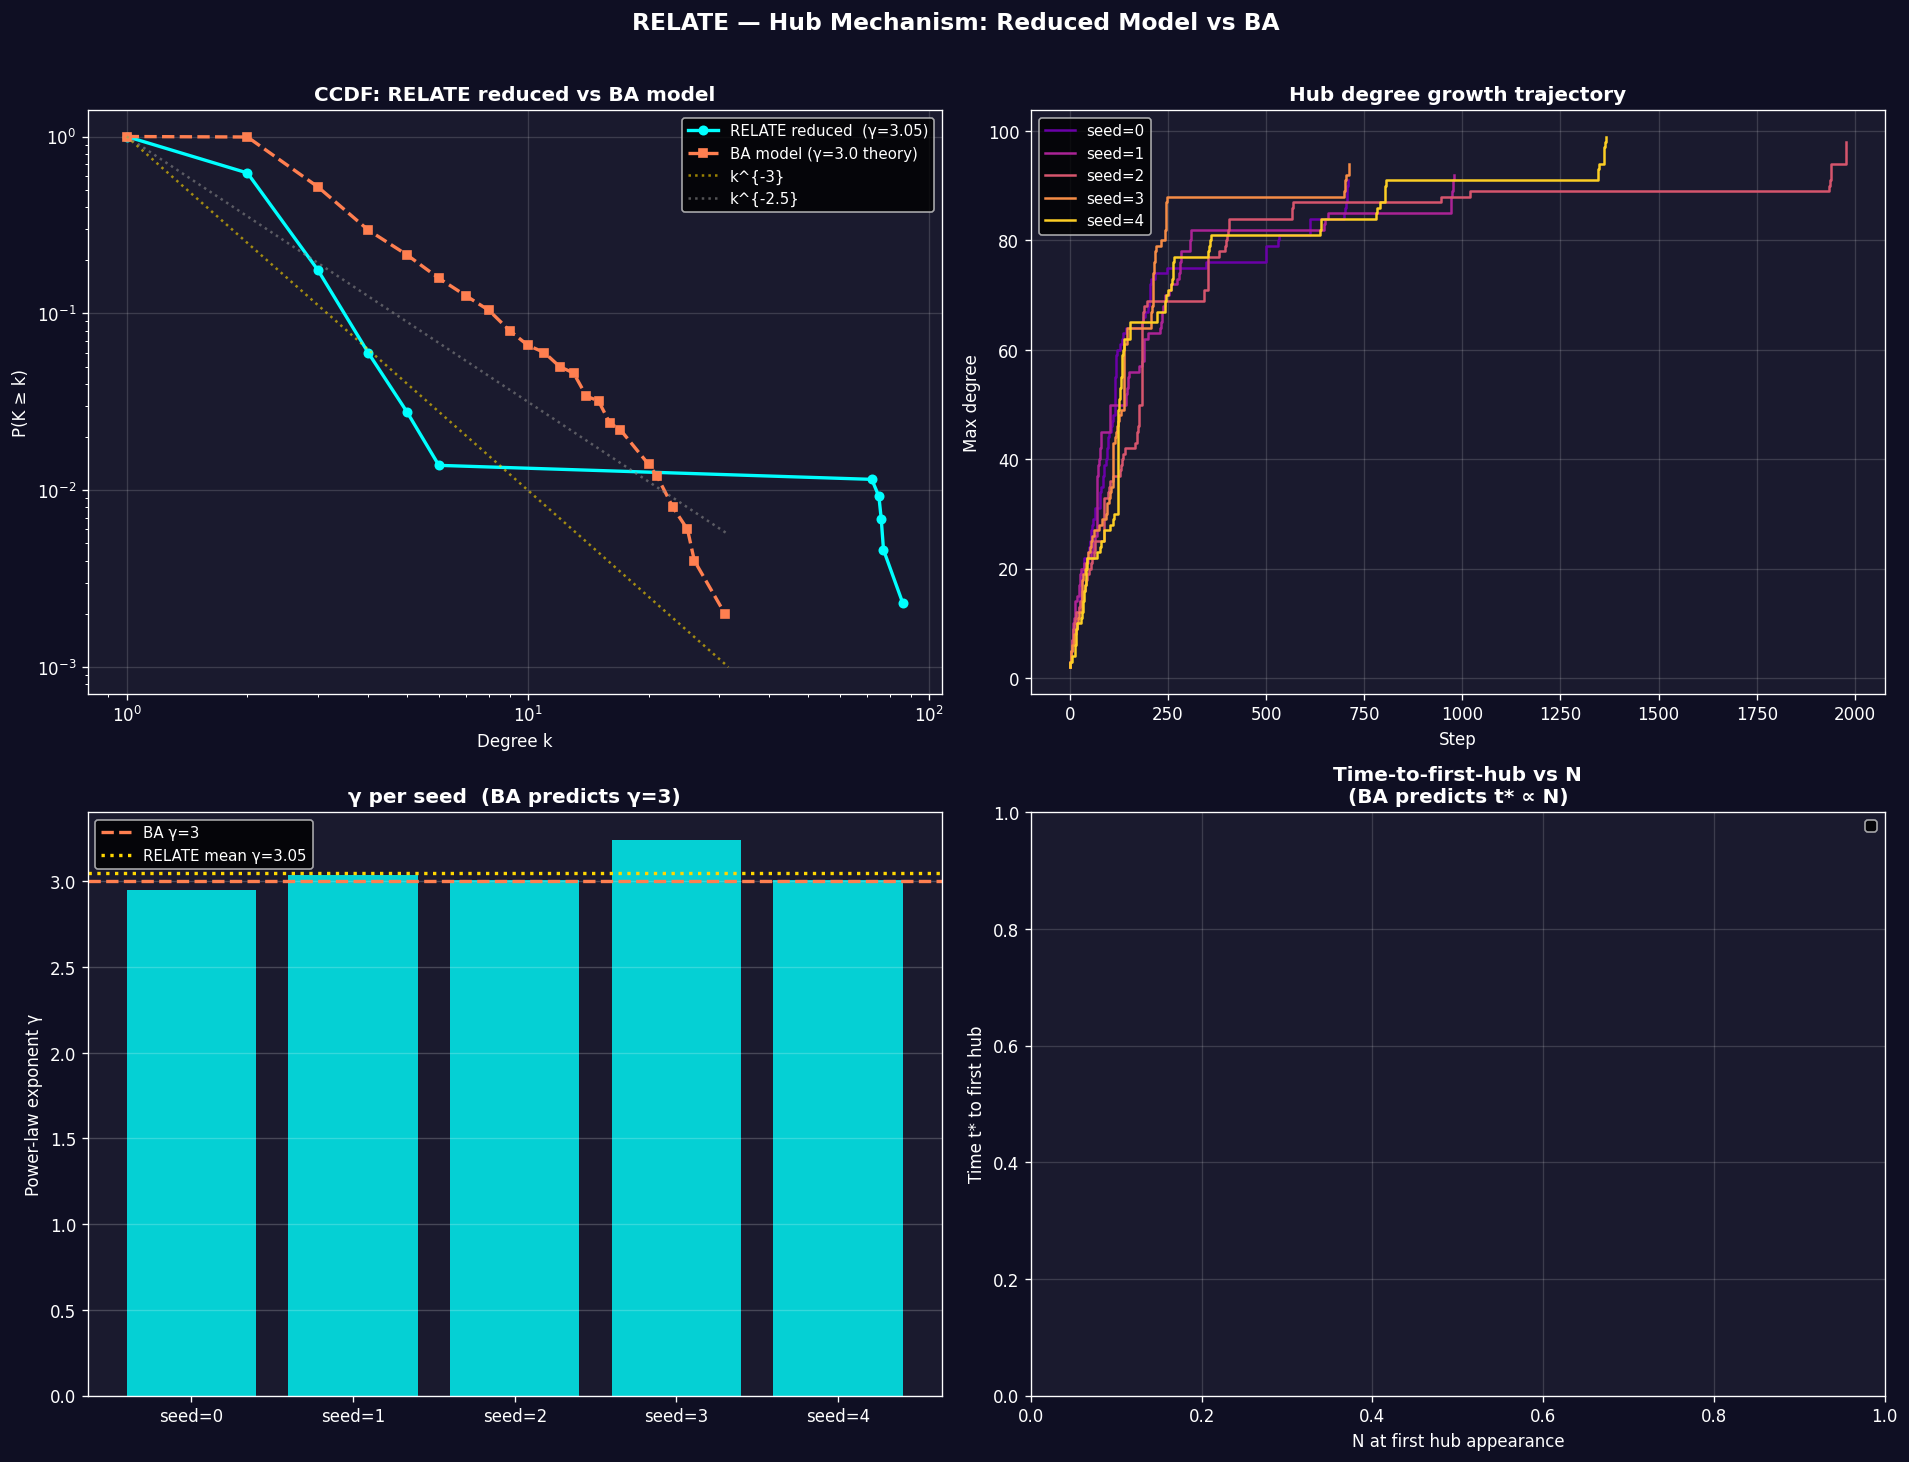
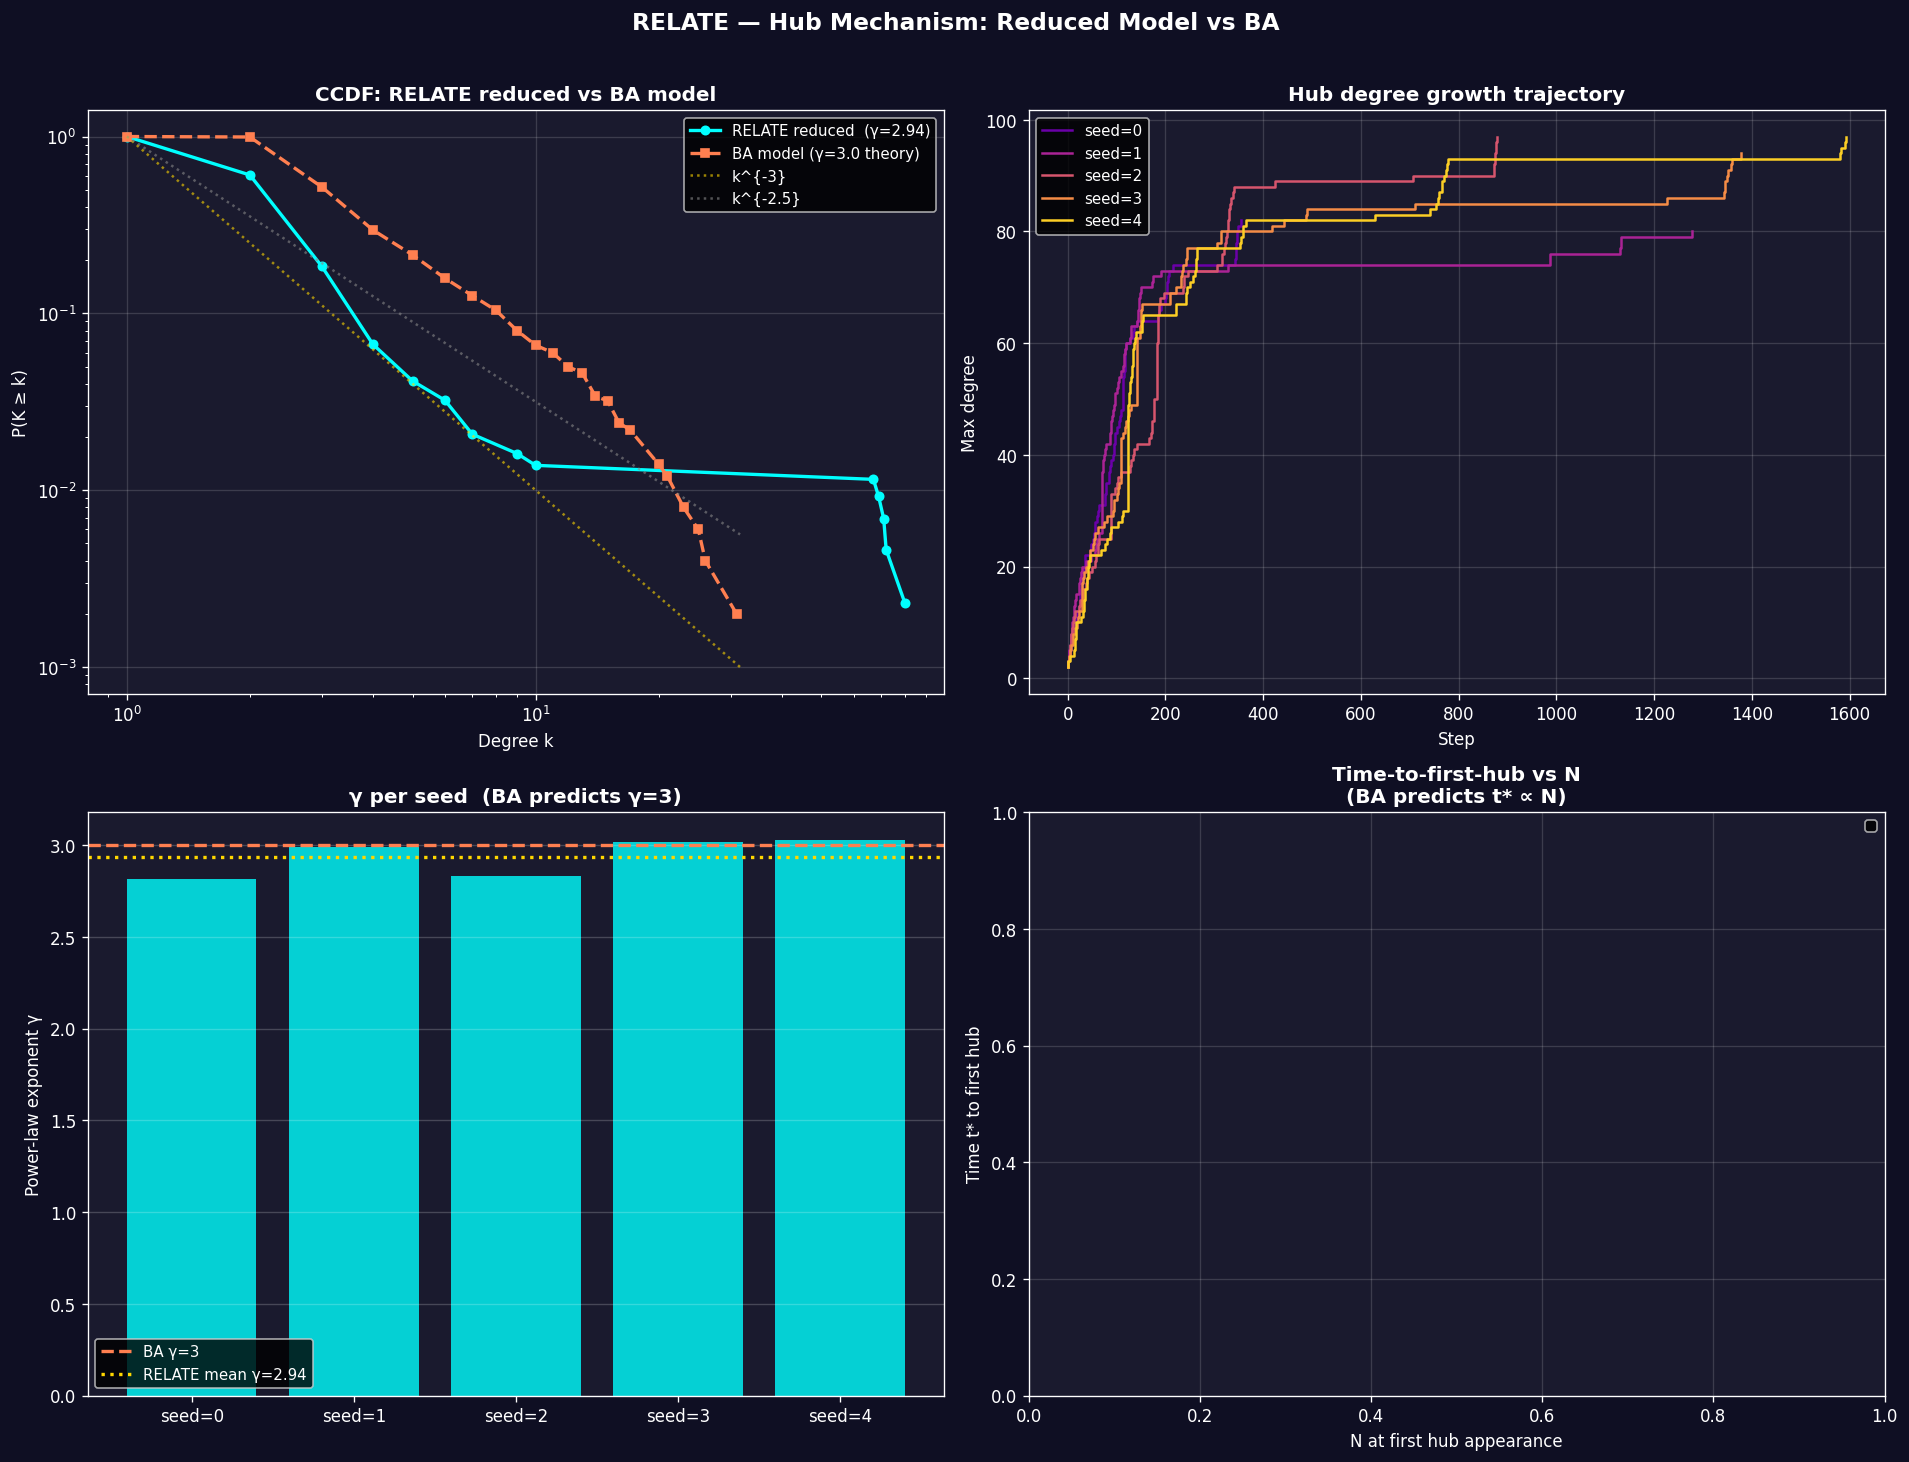
Fix hub mechanism

diff --git a/examples/hub_mechanism.py b/examples/hub_mechanism.py
@@ -39,7 +39,7 @@ import networkx as nx
 import numpy as np
 from scipy import stats as scipy_stats
 
-from relate.dynamics import apply_move, generate_moves, score_move_cheap
+from relate.dynamics import MoveType, ScoringParams, apply_move, generate_moves, score_move_cheap
 from relate.measures import power_law_exponent
 from relate.physics import (
     compute_accumulated_complexity,
@@ -56,13 +56,13 @@ def generate_moves_reduced(state: RealityState):
     if state.edge_count > 0:
         edges = list(state.graph.edges())
         for u, v in random.sample(edges, min(15, len(edges))):
-            moves.append(("expand", (u, v), 1.0))
+            moves.append((MoveType.EXPAND, (u, v), 1.0))
     if state.triple_count > 0:
         triples = list(state.triples)
         for t in random.sample(triples, min(10, len(triples))):
-            moves.append(("integrate", t, 1.0))
+            moves.append((MoveType.INTEGRATE, t, 1.0))
     if not moves:
-        moves.append(("seed", (), 1.0))
+        moves.append((MoveType.SEED, (), 1.0))
     return moves
 
 
@@ -95,10 +95,12 @@ def run_reduced(n_steps: int, alpha=0.3, beta=3.0, gamma=0.02,
 
         moves = generate_moves_reduced(state)
         scores, cands = [], {}
+        params = ScoringParams(alpha=alpha, beta=beta, gamma=gamma,
+                               vacuum=vacuum, connectivity=connectivity,
+                               size_penalty=size_penalty,
+                               topology_reward=topology_reward)
         for i, move in enumerate(moves):
-            sc, ns = score_move_cheap(state, move, E, alpha, beta, gamma,
-                                      vacuum, connectivity, C, lcs, U,
-                                      size_penalty, topology_reward)
+            sc, ns = score_move_cheap(state, move, E, params, C, lcs, U)
             scores.append(sc)
             if ns is not None: cands[i] = ns
 
